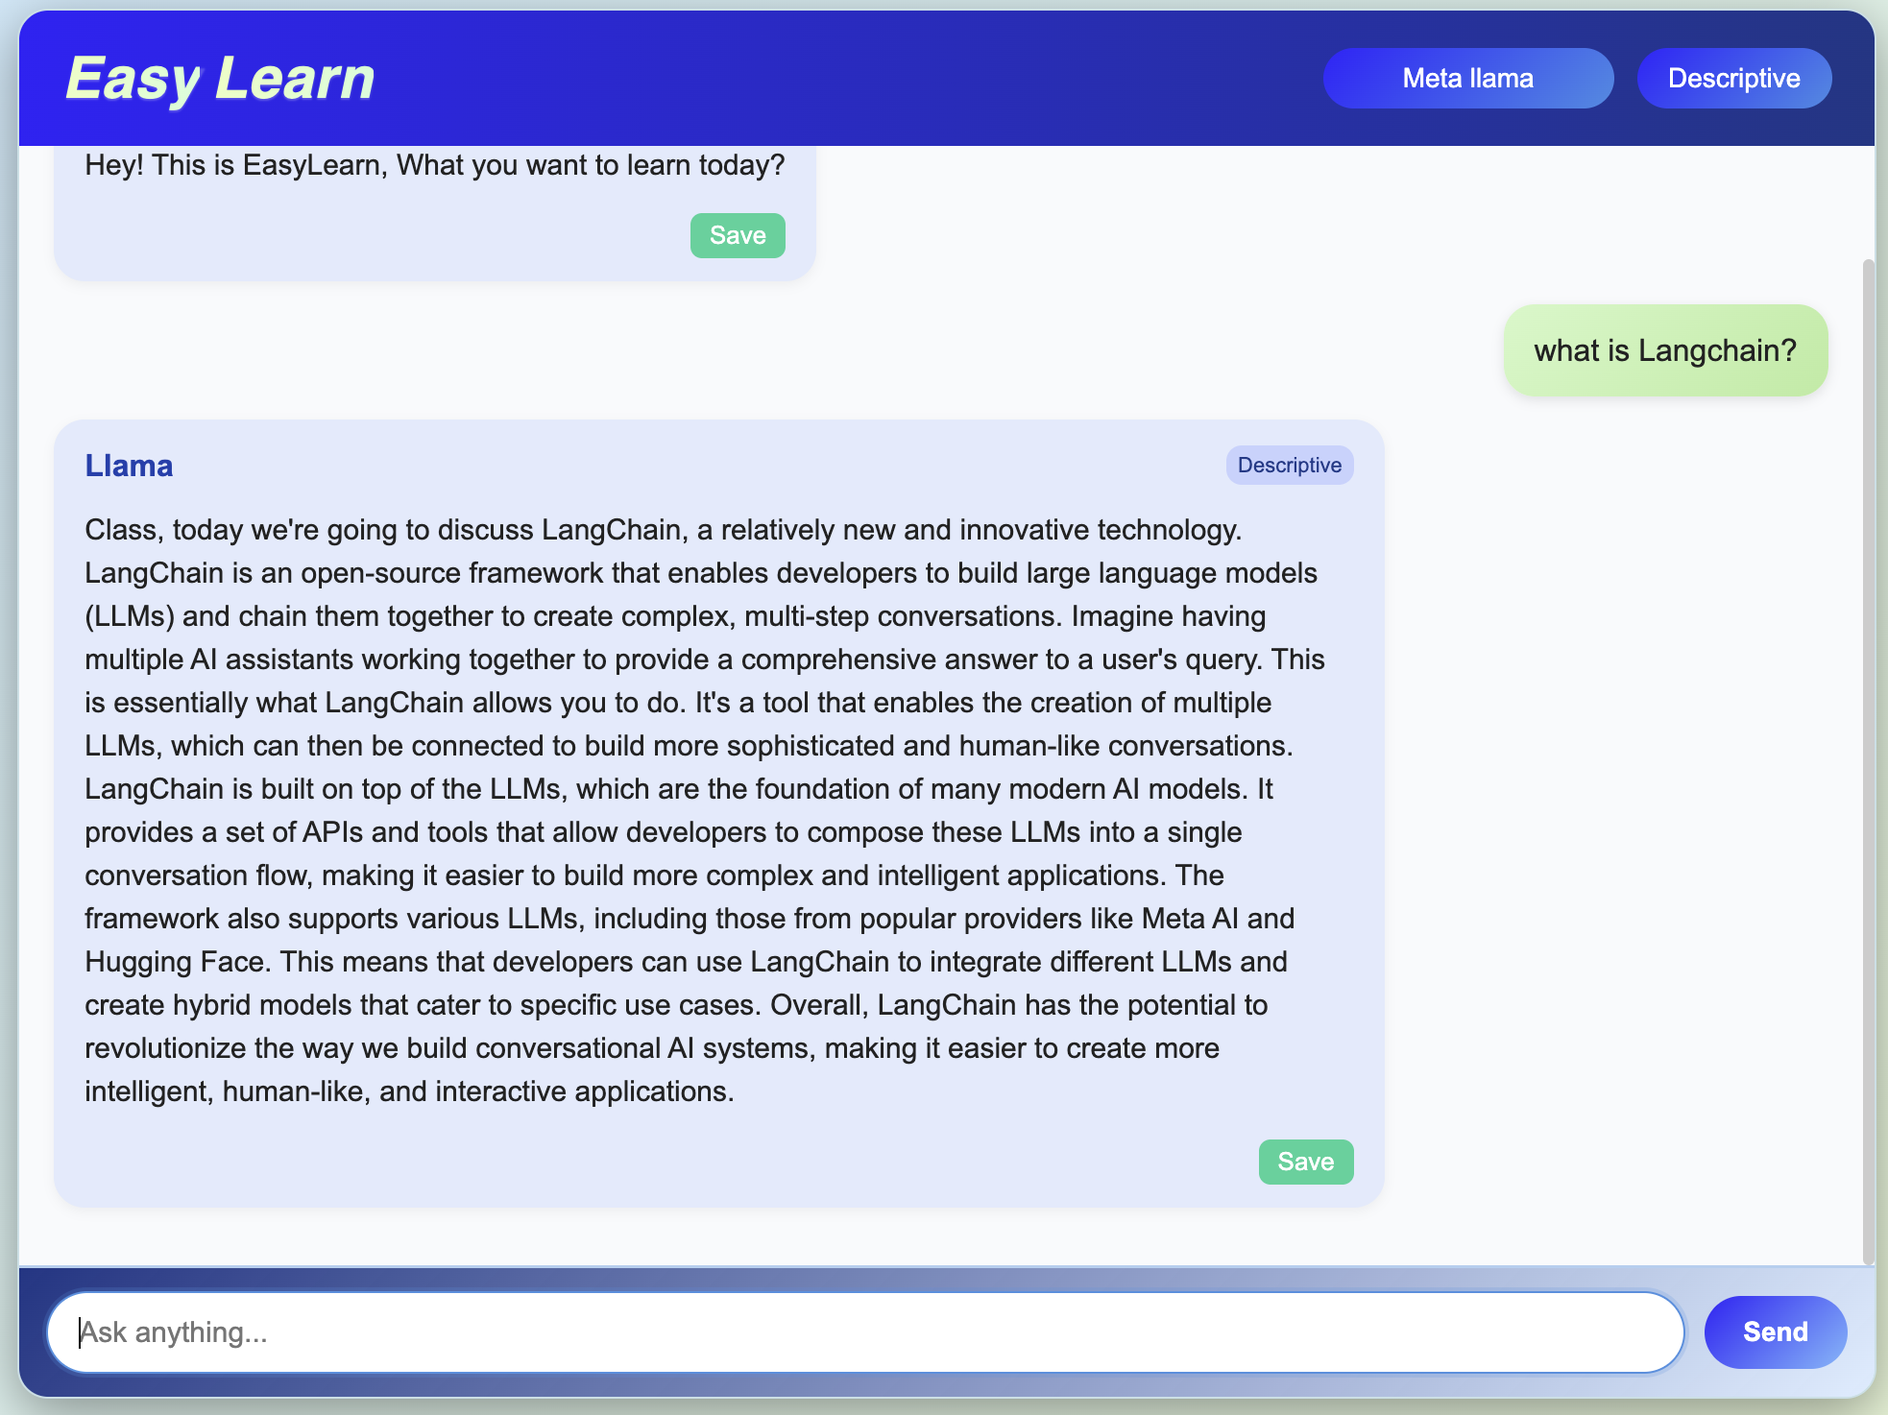
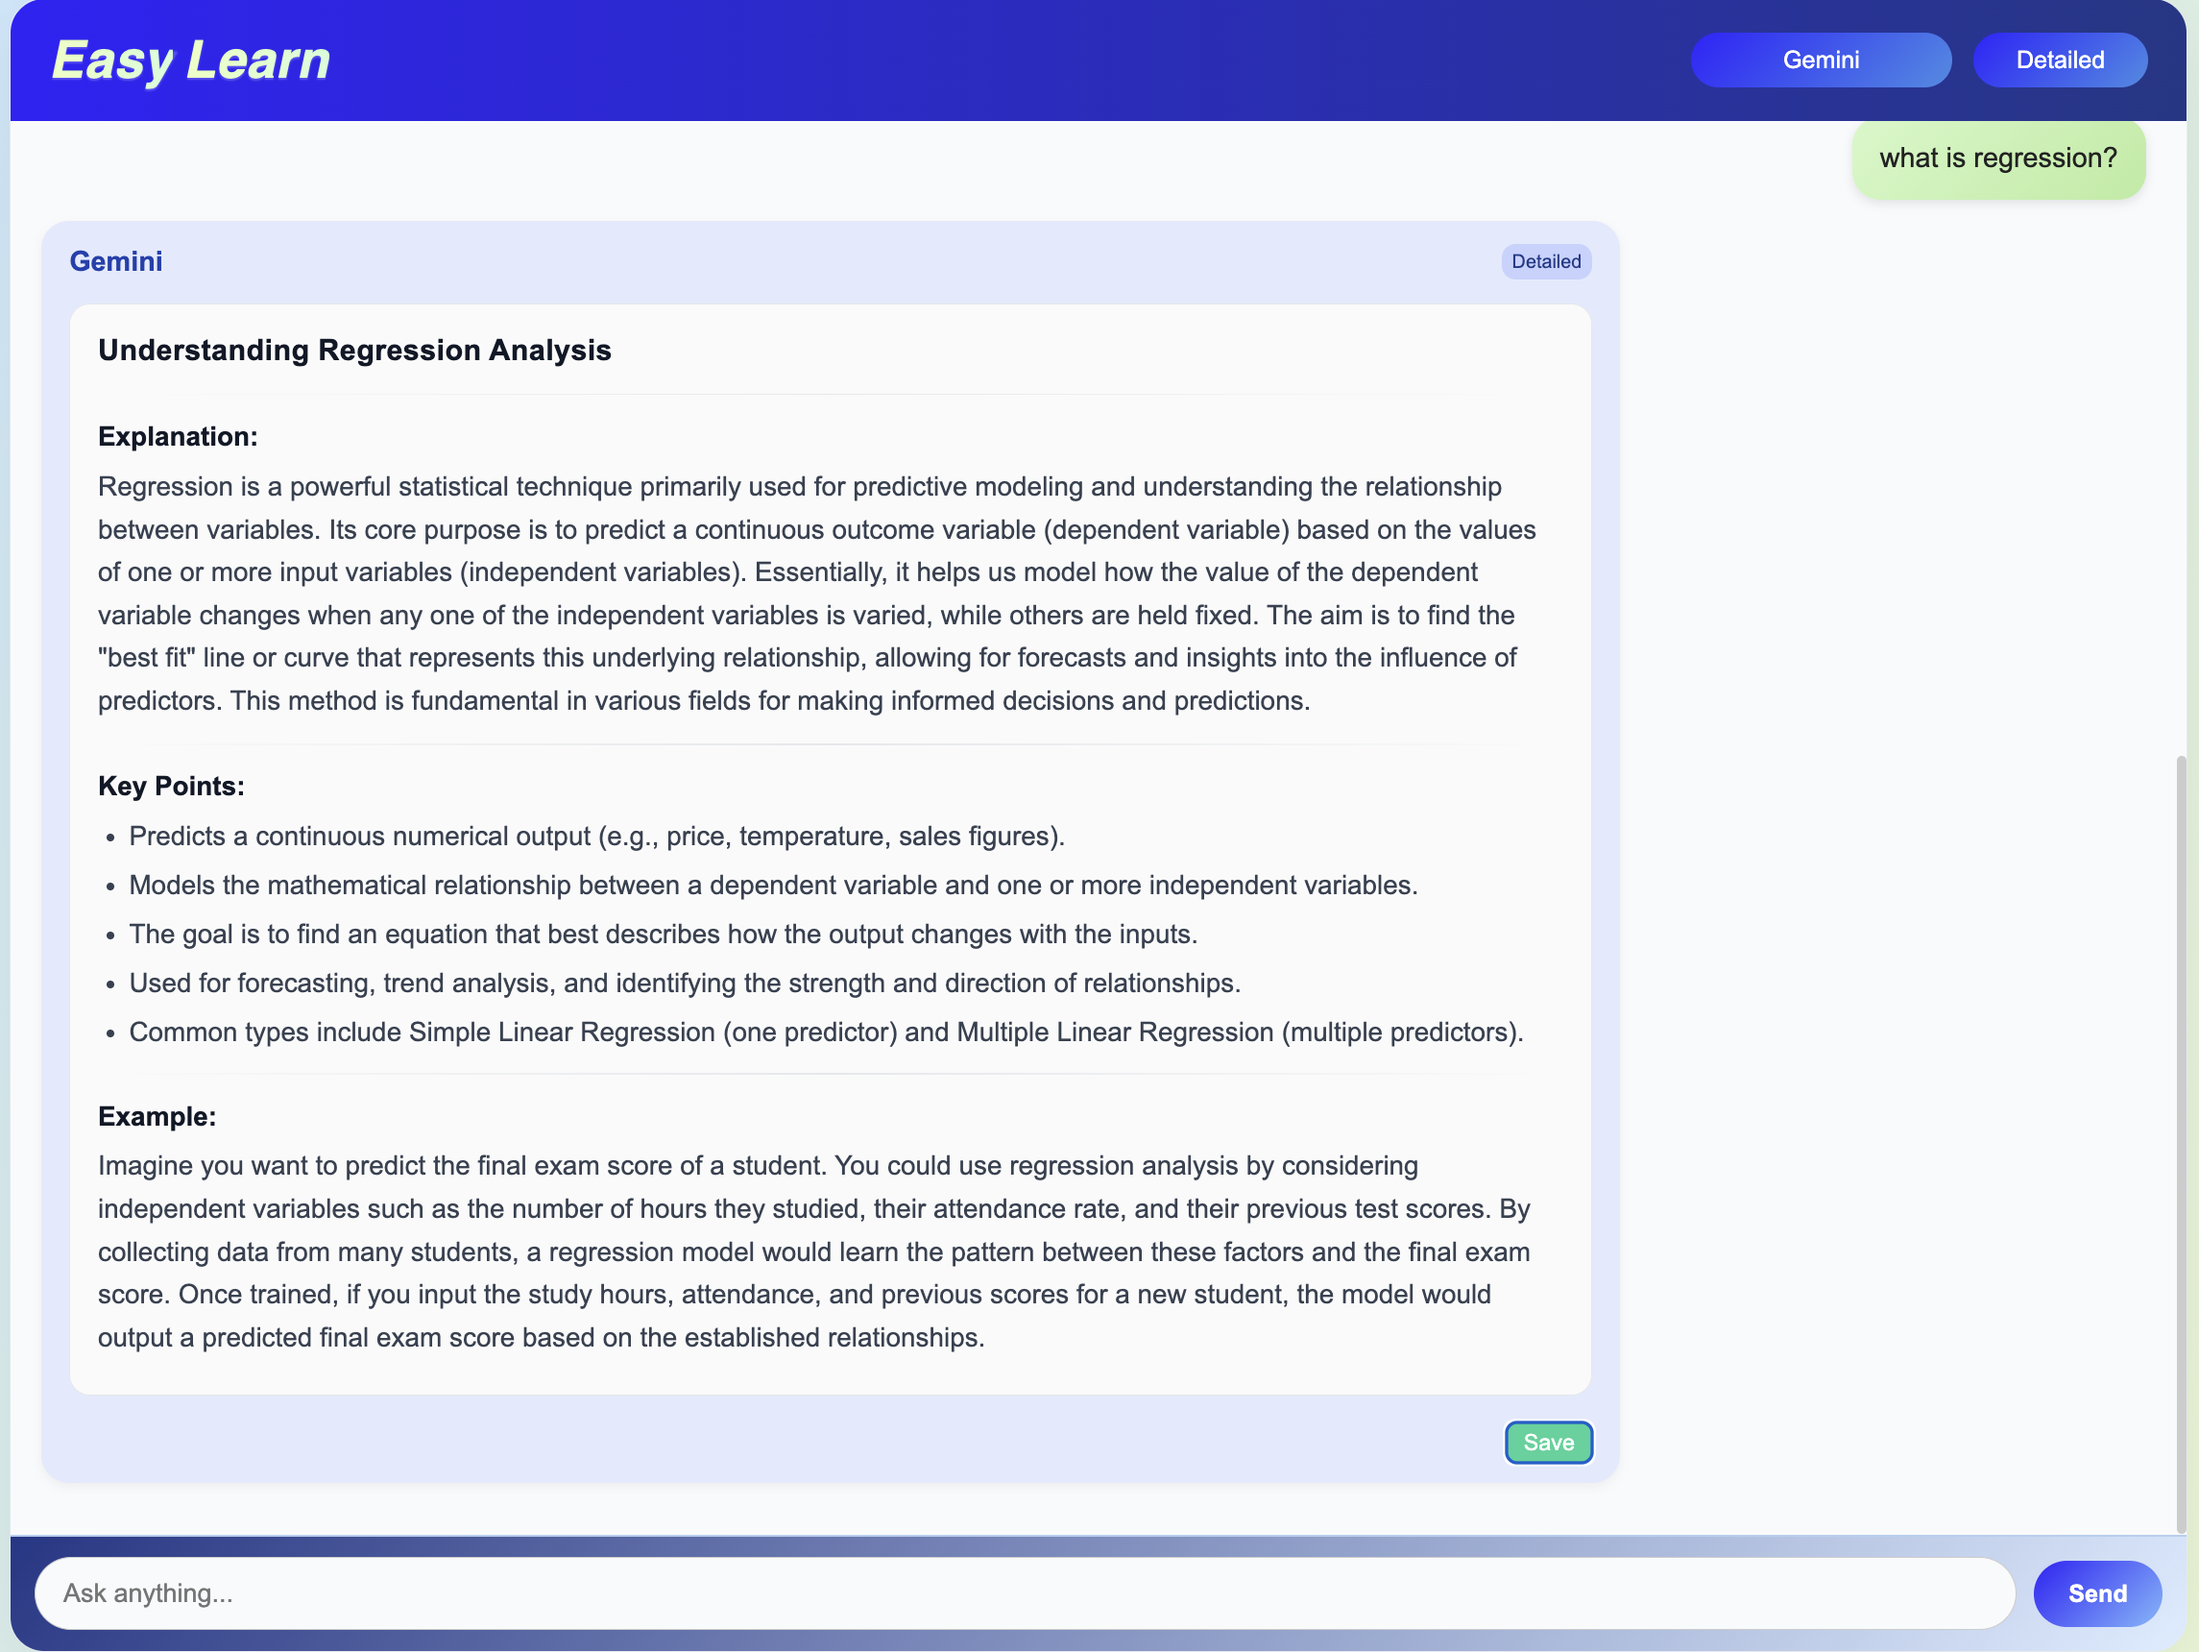
UI update

Changed region(s): [[0.0, 0.0, 1.0, 1.0]]

diff --git a/Frontend/my-app/src/Home/Home.css b/Frontend/my-app/src/Home/Home.css
@@ -15,16 +15,24 @@ body {
 
 /* Chat Container */
 .chat-container {
-  max-width: 1700px;
-  width: 64vw;
-  height: 88vh;
+  max-width: 1400px;
+  width: 90%;
+  height: 100vh;
+  margin: 0 auto;
+
   display: flex;
   flex-direction: column;
-  border-radius: 16px;
+
+  border-radius: 20px;
   overflow: hidden;
-  box-shadow: 0 8px 30px rgba(0, 0, 0, 0.4);
-  background-color: #d8f3f9;
-  border: 1px solid rgba(0, 0, 0, 0.08);
+
+  background: linear-gradient(135deg, #f8fbff, #eaf6fb);
+  border: 1px solid rgba(0, 0, 0, 0.06);
+
+  box-shadow: 0 10px 40px rgba(0, 0, 0, 0.08),
+    inset 0 1px 0 rgba(255, 255, 255, 0.3);
+
+  backdrop-filter: blur(4px);
 }
 
 /* Header */
@@ -156,12 +164,12 @@ body {
   align-items: flex-start;
 }
 
-/* Header section (model + level) */
+/* Header section */
 .bot-header {
   display: flex;
   justify-content: space-between;
   align-items: center;
-  width: 100%; /* ensures full width of the bubble */
+  width: 100%;
   margin-bottom: 6px;
 }
 
@@ -177,14 +185,84 @@ body {
   padding: 2px 6px;
   font-size: 11px;
   font-weight: 500;
-  margin-left: auto; /* pushes tag to the right */
+  margin-left: auto;
 }
 
-/* Bot main text */
+/* Bot message container */
 .bot-text {
-  font-size: 15px;
-  color: #222;
-  margin: 4px 0 8px;
+  font-size: 15.5px;
+  color: #1f2937;
+  margin: 6px 0 10px;
+}
+
+/* Structured response card */
+.structured-response {
+  background: #fafafa;
+  border: 1px solid #e5e7eb;
+  border-radius: 12px;
+  padding: 14px 16px;
+}
+
+/* Title */
+.structured-response h2 {
+  margin: 0 0 8px;
+  font-size: 17px;
+  font-weight: 600;
+  color: #111827;
+  letter-spacing: 0.2px;
+}
+
+/* Section separators */
+.structured-response hr {
+  border: none;
+  height: 1px;
+  background: linear-gradient(to right, transparent, #e5e7eb, transparent);
+  margin: 12px 0;
+}
+
+/* Paragraph text */
+.structured-response p {
+  margin: 6px 0;
+  line-height: 1.6;
+  color: #374151;
+}
+
+/* Section headings (bold labels like Explanation, Example, etc.) */
+.structured-response strong {
+  display: block;
+  margin-bottom: 4px;
+  font-weight: 600;
+  color: #111827;
+}
+
+/* Key points container */
+.points-section {
+  margin: 6px 0;
+}
+
+/* Key points heading */
+.points-section strong {
+  display: block;
+  margin-bottom: 6px;
+}
+
+/* Bullet list */
+.points-section ul {
+  padding-left: 18px;
+  margin: 0;
+}
+
+/* Bullet items */
+.points-section li {
+  margin-bottom: 5px;
+  line-height: 1.5;
+  color: #374151;
+}
+
+/* Subtle hover effect */
+.structured-response:hover {
+  box-shadow: 0 4px 12px rgba(0, 0, 0, 0.04);
+  transition: box-shadow 0.2s ease;
 }
 
 /* Save button */

diff --git a/Frontend/my-app/src/Home/Home.jsx b/Frontend/my-app/src/Home/Home.jsx
@@ -128,7 +128,38 @@ function Home() {
                       : "Level"}
                   </span>
                 </div>
-                <div className="bot-text">{msg.text}</div>
+                <div className="bot-text">
+                  {typeof msg.text === "object" ? (
+                    <div className="structured-response">
+                      <h2>{msg.text.title}</h2>
+                      <hr />
+                      <p>
+                        <strong>Explanation:</strong>
+                        {msg.text.summary}
+                        <hr />
+                      </p>
+
+                      {Array.isArray(msg.text.key_points) && (
+                        <div className="points-section">
+                          <strong>Key Points:</strong>
+                          <ul>
+                            {msg.text.key_points.map((point, i) => (
+                              <li key={i}>{point}</li>
+                            ))}
+                          </ul>
+                          <hr />
+                        </div>
+                      )}
+
+                      <p>
+                        <strong>Example:</strong>
+                        {msg.text.example}
+                      </p>
+                    </div>
+                  ) : (
+                    msg.text
+                  )}
+                </div>
                 <button
                   className="save-btn"
                   onClick={() => handleSaveMessage(msg)}
